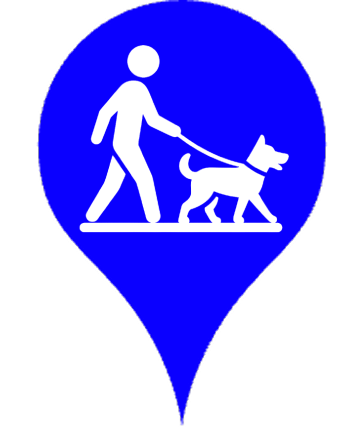
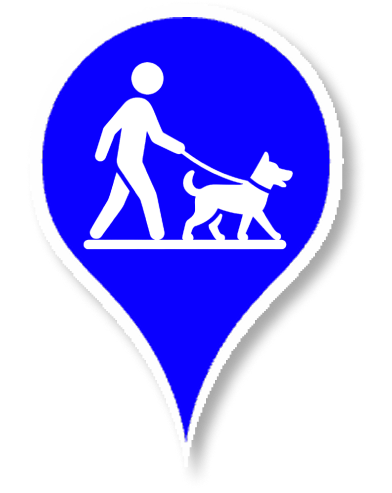
add:現在地ピンデザイン

Changed region(s): [[0.0907, 0.0, 0.9066, 1.0], [0.1209, 0.1827, 0.1511, 0.2436]]

diff --git a/frontend/src/components/MapView.tsx b/frontend/src/components/MapView.tsx
@@ -9,7 +9,6 @@ import {
 } from "@react-google-maps/api";
 import { useShelters } from "../hooks/useShelters";
 import type { Shelter, ShelterType } from "../types/shelter";
-import MapLegend from "./MapLegend";
 import { useDistanceMatrix } from "@/hooks/useDistanceMatrix";
 import { LoadingSpinner } from "./LoadingSpinner";
 import { getShelterPinSymbol } from "./ShelterPin";
@@ -153,7 +152,13 @@ export default function MapView() {
 
     // ✅ ロード中は再計算を防止
     if (isLocating || distLoading) return;
-    calculate(currentPosition, shelters);
+
+    const timer = setTimeout(() => {
+      calculate(currentPosition, shelters);
+    }, 200);
+    // クリーンアップでタイマー解除（再描画時に多重実行を防ぐ）
+    return () => clearTimeout(timer);
+    // eslint-disable-next-line react-hooks/exhaustive-deps
   }, [currentPosition, shelters]);
 
   useEffect(() => {
@@ -340,7 +345,12 @@ export default function MapView() {
                 {currentPosition && (
                   <Marker
                     position={currentPosition}
-                    icon="http://maps.google.com/mapfiles/ms/icons/red-dot.png"
+                    icon={{
+                      url: "/pins/pin_current.png", // ← オリジナル画像を指定
+                      scaledSize: new google.maps.Size(56, 64), // ← 表示サイズを調整
+                      anchor: new google.maps.Point(32, 64), // ← ピン先端が地面に来るよう調整
+                    }}
+                    zIndex={9999}
                     onClick={() => setShowCurrentInfo(!showCurrentInfo)}
                   />
                 )}
@@ -397,11 +407,8 @@ export default function MapView() {
                   </div>
                 )}
 
-                {/* 凡例 */}
-                <MapLegend />
-
                 {/* 地図タイプ切替ボタン */}
-                <div className="absolute bottom-[120px] left-4 z-30">
+                <div className="absolute bottom-[80px] left-4 z-30">
                   <div className="flex bg-white rounded-full shadow-md overflow-hidden border border-gray-200">
                     <button
                       onClick={() => mapRef.current?.setMapTypeId("roadmap")}

diff --git a/frontend/src/hooks/useDistanceMatrix.ts b/frontend/src/hooks/useDistanceMatrix.ts
@@ -13,7 +13,7 @@ export function useDistanceMatrix() {
 
   const calculate = (
     origin: google.maps.LatLngLiteral,
-    shelters: { id: string | number; lat: number; lng: number }[]
+    shelters: { id: string | number; lat: number; lng: number; name?: string }[]
   ) => {
     if (!window.google || shelters.length === 0) return;
     if (loading) return;
@@ -30,7 +30,42 @@ export function useDistanceMatrix() {
       },
       (response, status) => {
         try {
-          if (status !== "OK" || !response) return;
+          if (status !== "OK" || !response) {
+            console.warn("⚠ DistanceMatrix失敗。モックデータを使用します。");
+
+            // --- モックデータをセット ---
+            const mockDistances: Record<string, DistanceInfo> = {};
+            const mockDurations: Record<string, DistanceInfo> = {};
+
+            shelters.forEach((s, i) => {
+              if (s.name?.includes("本町小学校")) {
+                mockDistances[String(s.id)] = { text: "1.5 km", value: 1500 };
+                mockDurations[String(s.id)] = {
+                  text: "徒歩 22分",
+                  value: 1320,
+                };
+              } else if (s.name?.includes("大道中学校")) {
+                mockDistances[String(s.id)] = { text: "130 m", value: 130 };
+                mockDurations[String(s.id)] = { text: "徒歩 2分", value: 120 };
+              } else {
+                // その他はダミーで距離を自動生成
+                const km = (i + 1) * 0.7;
+                mockDistances[String(s.id)] = {
+                  text: `${km.toFixed(1)} km`,
+                  value: km * 1000,
+                };
+                mockDurations[String(s.id)] = {
+                  text: `徒歩 ${(km * 12).toFixed(0)}分`,
+                  value: km * 720,
+                };
+              }
+            });
+
+            setDistances(mockDistances);
+            setDurations(mockDurations);
+            setLoading(false);
+            return;
+          }
 
           const newDistances: Record<string, DistanceInfo> = {} as Record<
             string,
